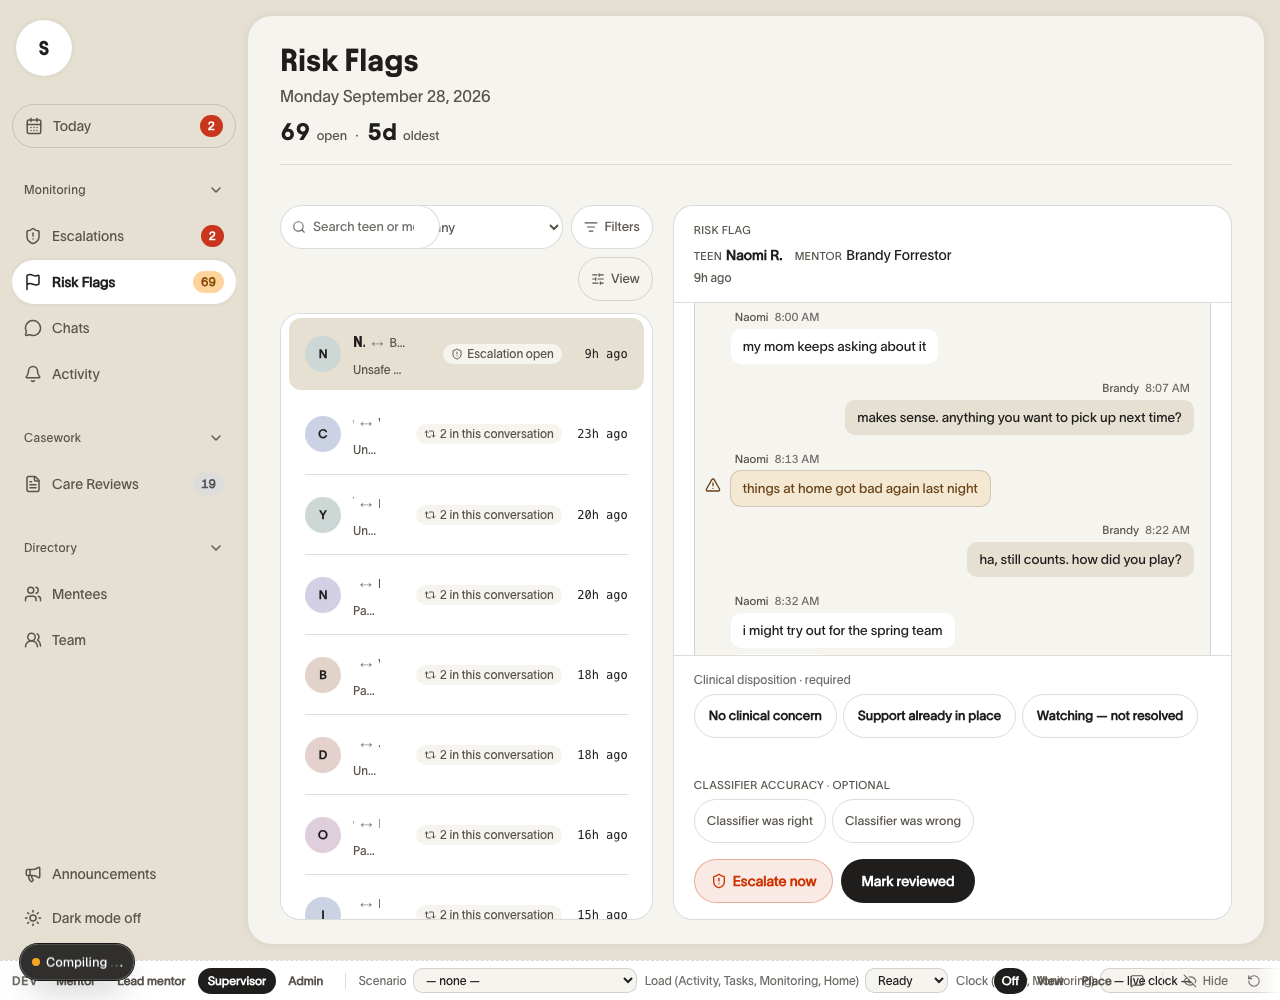
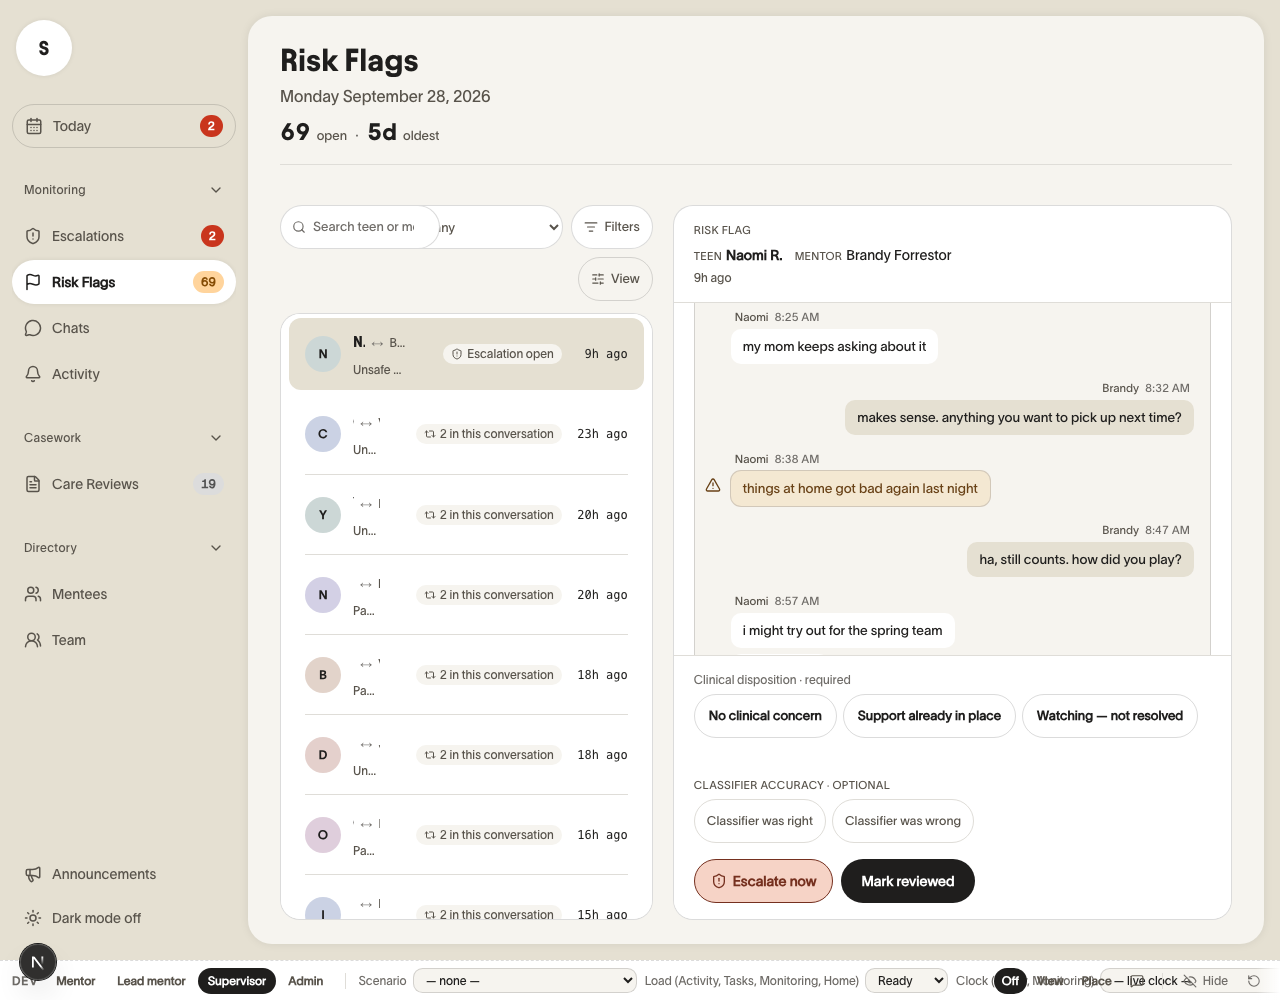
fix(a11y): the escalate button failed AA in both themes
Two serious `color-contrast` violations from `monitoring-axe`, on
`data-action="escalate"` at xl. Pre-existing — confirmed identical on
main — and only visible because the theme fix made the dark run real.

THE DEFECT was the label sitting in the same hue as its own ground:
`text-[var(--state-error)]` on `bg-[var(--state-error)]/10`. Measured,
compositing the fill over the pane:
  light  #cc3300 on rgb(250,235,230) = 4.48:1
  dark   #ff6f2f on rgb(71,53,44)    = 4.17:1
Both under 4.5, and 14px at weight 600 is NOT large text — large needs
18.66px, or 14px at 700. (The 600 is itself inert here: Lausanne ships
only the 400 face.)

REDUCING THE TINT WAS THE OBVIOUS FIX AND IS THE WRONG ONE. Measured
across opacities, it takes 4% to clear the floor in both themes (light
4.90, dark 4.52) — and a 4% fill is invisible. That buys the ratio by
deleting the channel the button's own note says has to do real work,
and it clears the floor by 0.02.

BLOOM ALREADY HAD THE PAIR. `--band-clay-bg` / `--band-clay-fg` exist in
both themes and the token file says what they are for: "escalation;
earthy, not pink". Verified rather than trusted, and the rendered values
match the computed ones exactly:
  light  #75301f on #f6d3c6 = 6.84:1
  dark   #f2ac92 on #673928 = 5.06:1

EVERY STATED INTENT SURVIVES. Still tonal rather than a saturated red
fill; still not red-as-destructive, which that note argues at length is
the wrong thumb on the scale where under-escalation is the expensive
[…]

Changed region(s): [[0.5312, 0.837, 0.6562, 0.93], [0.0312, 0.93, 0.125, 0.992]]

diff --git a/src/components/monitoring/event-pane.tsx b/src/components/monitoring/event-pane.tsx
@@ -1346,8 +1346,40 @@ export function EventPane({
                        commit, so the tonal fill has to do real work. It carries
                        a border AND a fill AND an icon, against the commit's
                        solid ink. */
-                    "border border-[color:var(--state-error)]/35 bg-[var(--state-error)]/10 text-[var(--state-error)]",
-                    "hover:bg-[var(--state-error)]/15",
+                    /* ═══ THE CLAY PAIR, NOT A SELF-TINTED `--state-error` ═══
+                       IT WAS `text-[var(--state-error)]` on
+                       `bg-[var(--state-error)]/10` — the label in the same hue
+                       as its own ground, which is the whole defect. MEASURED,
+                       compositing the 10% fill over the pane:
+                         light  #cc3300 on rgb(250,235,230) = 4.48:1
+                         dark   #ff6f2f on rgb(71,53,44)    = 4.17:1
+                       Both under 4.5, and 14px at weight 600 is not large text
+                       — large needs 18.66px, or 14px at 700. `monitoring-axe`
+                       reported it as two serious `color-contrast` violations at
+                       xl, in both themes, and it predates this pack.
+                       REDUCING THE TINT WAS THE OBVIOUS FIX AND IS THE WRONG
+                       ONE: measured, it takes 4% opacity to clear the floor in
+                       both themes (light 4.90, dark 4.52), and a 4% fill is
+                       invisible — it would buy the ratio by deleting the
+                       channel the note above says has to do real work.
+                       BLOOM ALREADY HAS THE PAIR. `--band-clay-bg` /
+                       `--band-clay-fg` exist in both themes and the token
+                       file's own comment says what they are for: "escalation;
+                       earthy, not pink". Verified rather than trusted:
+                         light  #75301f on #f6d3c6 = 6.84:1
+                         dark   #f2ac92 on #673928 = 5.06:1
+                       EVERY STATED INTENT SURVIVES — tonal rather than a
+                       saturated red fill, not red-as-destructive, and still
+                       three channels. The BORDER is now full-strength clay ink
+                       rather than 35% `--state-error`, which also makes it a
+                       real boundary: measured 6.84:1 against the fill and
+                       9.55:1 against the pane in light, 5.06 and 7.03 in dark,
+                       where the old 35% border was 1.77:1 and carried nothing.
+                       HOVER MATCHES ITS SIBLING — `opacity-90`, the same
+                       treatment the commit beside it uses, so neither button
+                       introduces a colour value for a hover state. */
+                    "border border-[color:var(--band-clay-fg)] bg-[var(--band-clay-bg)] text-[var(--band-clay-fg)]",
+                    "transition-opacity hover:opacity-90",
                     RING
                   )}
                 >
